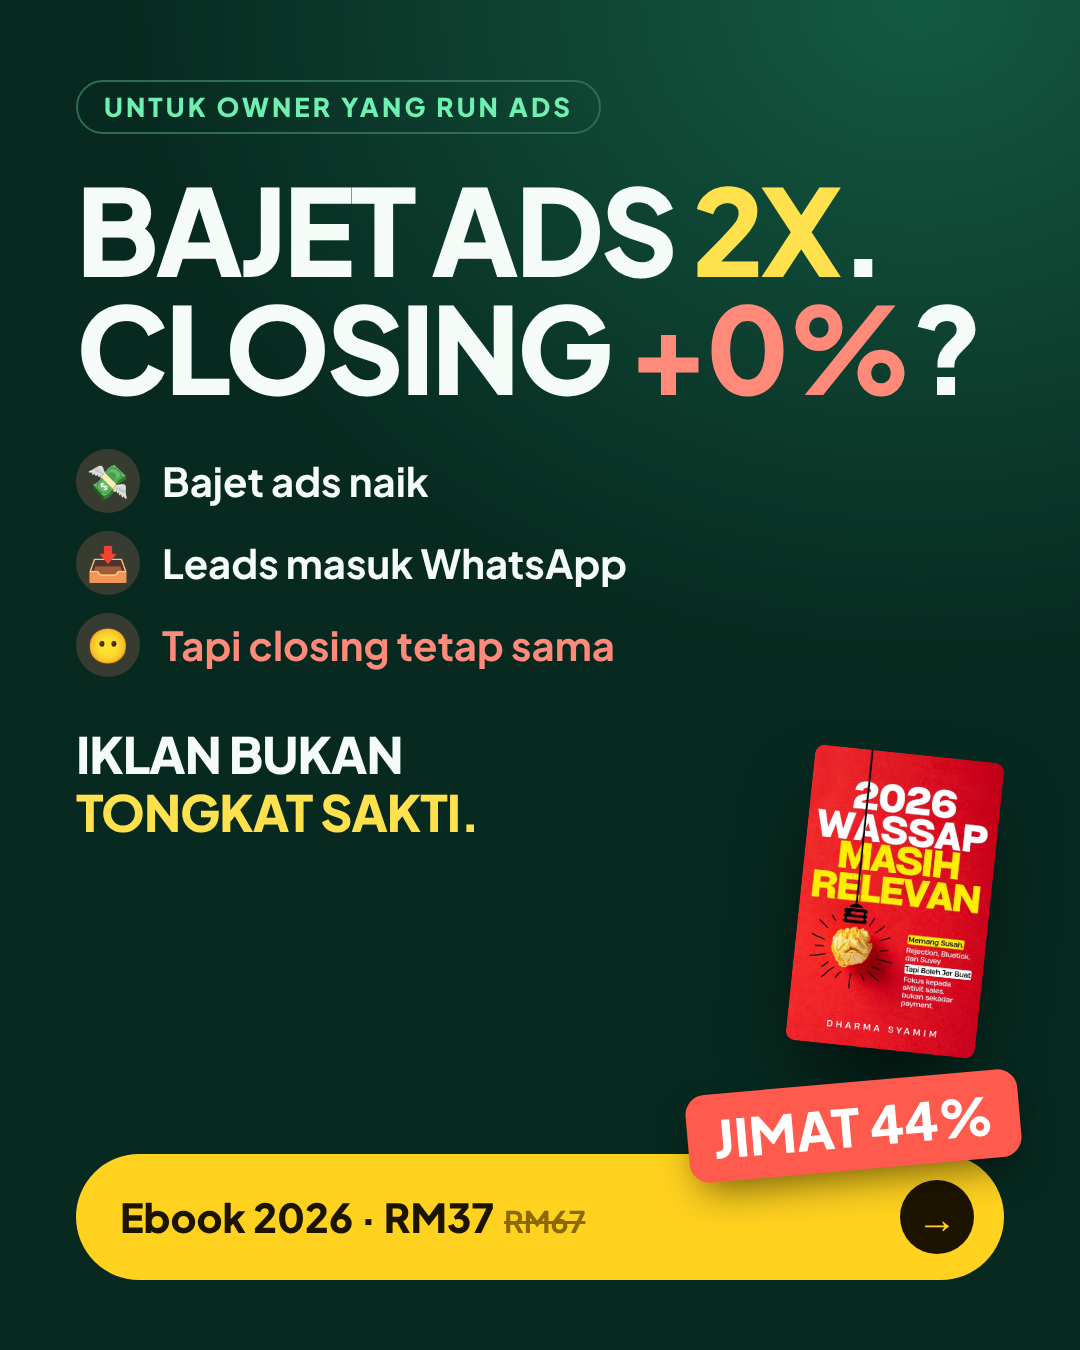
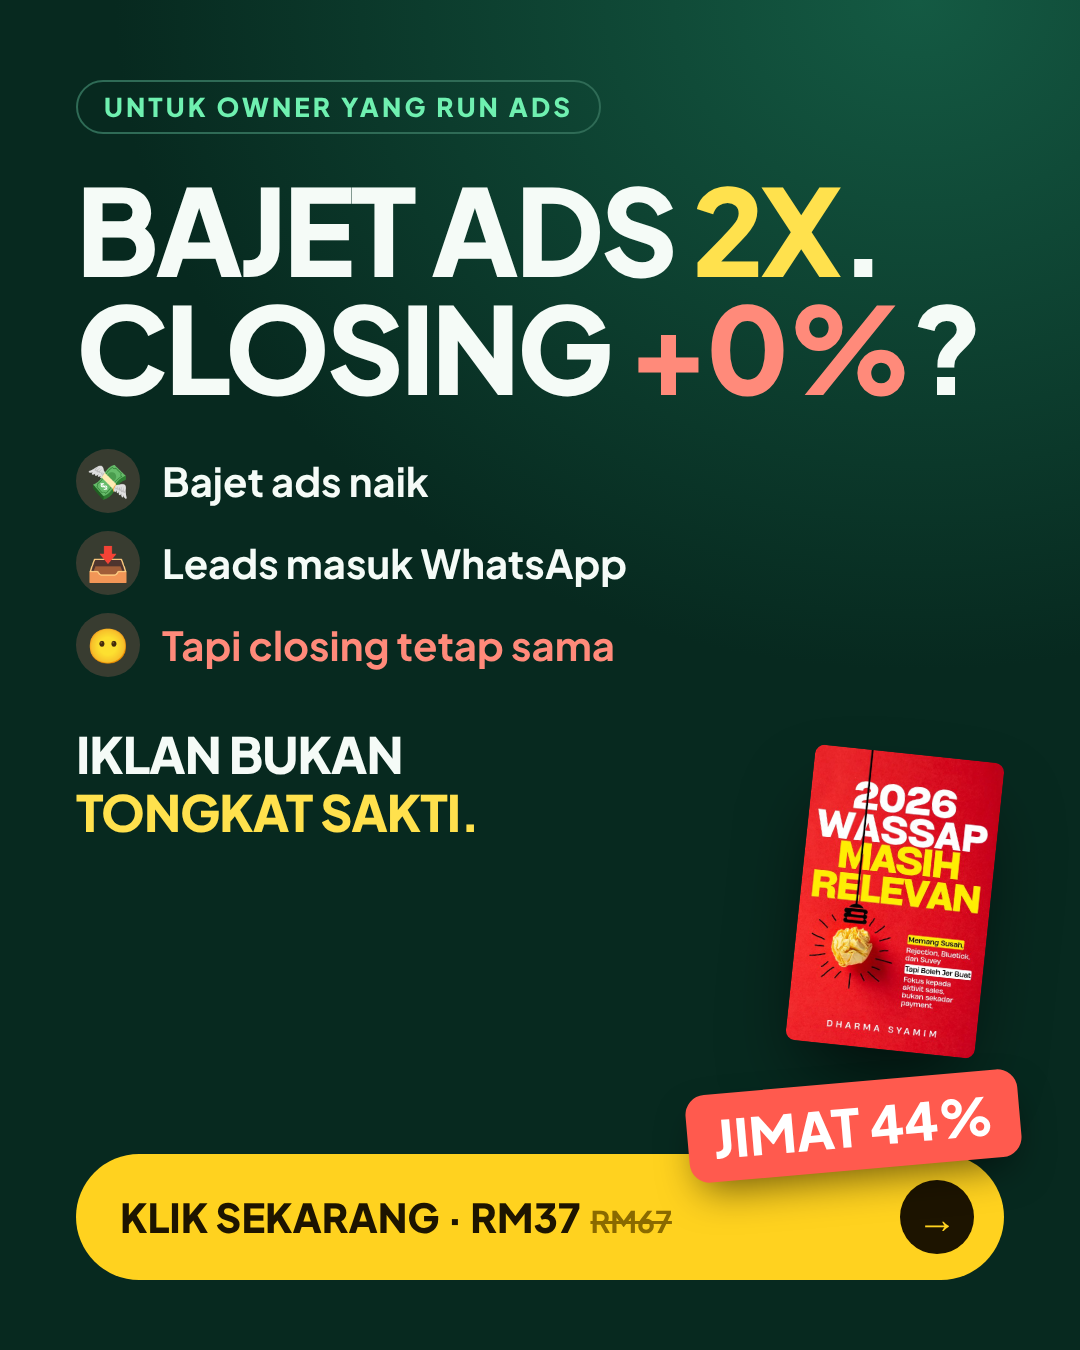
Stronger CTA on posters: KLIK SEKARANG
Claude-Session: https://claude.ai/code/session_01TPky1w5Smp95p1hdnhCb8t

Changed region(s): [[0.1222, 0.8711, 0.6111, 0.9333]]

diff --git a/ads/creative/iklan-2.html b/ads/creative/iklan-2.html
@@ -56,7 +56,7 @@ h1{text-transform:uppercase}
     <div class="right" style="padding:24px 30px"><span class="lbl g">✓ Guide dulu</span><div class="bub out" style="align-self:flex-start;max-width:820px">Boleh! Untuk diri sendiri atau keluarga? Saya cadang yang paling sesuai.</div></div>
   </div>
   <div class="stat"><b>5</b><span>skrip letak harga<br>biar nampak murah</span></div>
-  <div class="cta"><span>Ebook 2026 · RM37<s>RM67</s></span><span class="arr">→</span></div>
+  <div class="cta"><span>KLIK SEKARANG · RM37<s>RM67</s></span><span class="arr">→</span></div>
   <div class="badge">JIMAT 44%</div>
 </section>
 
@@ -70,7 +70,7 @@ h1{text-transform:uppercase}
   </div>
   <p style="font:800 54px/1.15 'Plus Jakarta Sans';margin-top:44px;text-transform:uppercase;letter-spacing:-.02em">Musuh anda<br>bukan pesaing.<br><span class="y">Tapi penangguhan.</span></p>
   <img class="cover" src="../../assets/covers/ebook-2026.jpg" style="right:60px;top:490px;width:200px;transform:rotate(6deg)">
-  <div class="cta"><span>Ebook 2026 · RM37<s>RM67</s></span><span class="arr">→</span></div>
+  <div class="cta"><span>KLIK SEKARANG · RM37<s>RM67</s></span><span class="arr">→</span></div>
   <div class="badge">JIMAT 44%</div>
 </section>
 
@@ -85,7 +85,7 @@ h1{text-transform:uppercase}
   </div>
   <p style="font:800 50px/1.15 'Plus Jakarta Sans';margin-top:48px;text-transform:uppercase;letter-spacing:-.02em;max-width:640px">Iklan bukan<br><span class="y">tongkat sakti.</span></p>
   <img class="cover" src="../../assets/covers/ebook-2026.jpg" style="right:90px;bottom:300px;width:190px;transform:rotate(6deg)">
-  <div class="cta"><span>Ebook 2026 · RM37<s>RM67</s></span><span class="arr">→</span></div>
+  <div class="cta"><span>KLIK SEKARANG · RM37<s>RM67</s></span><span class="arr">→</span></div>
   <div class="badge">JIMAT 44%</div>
 </section>
 </body></html>
